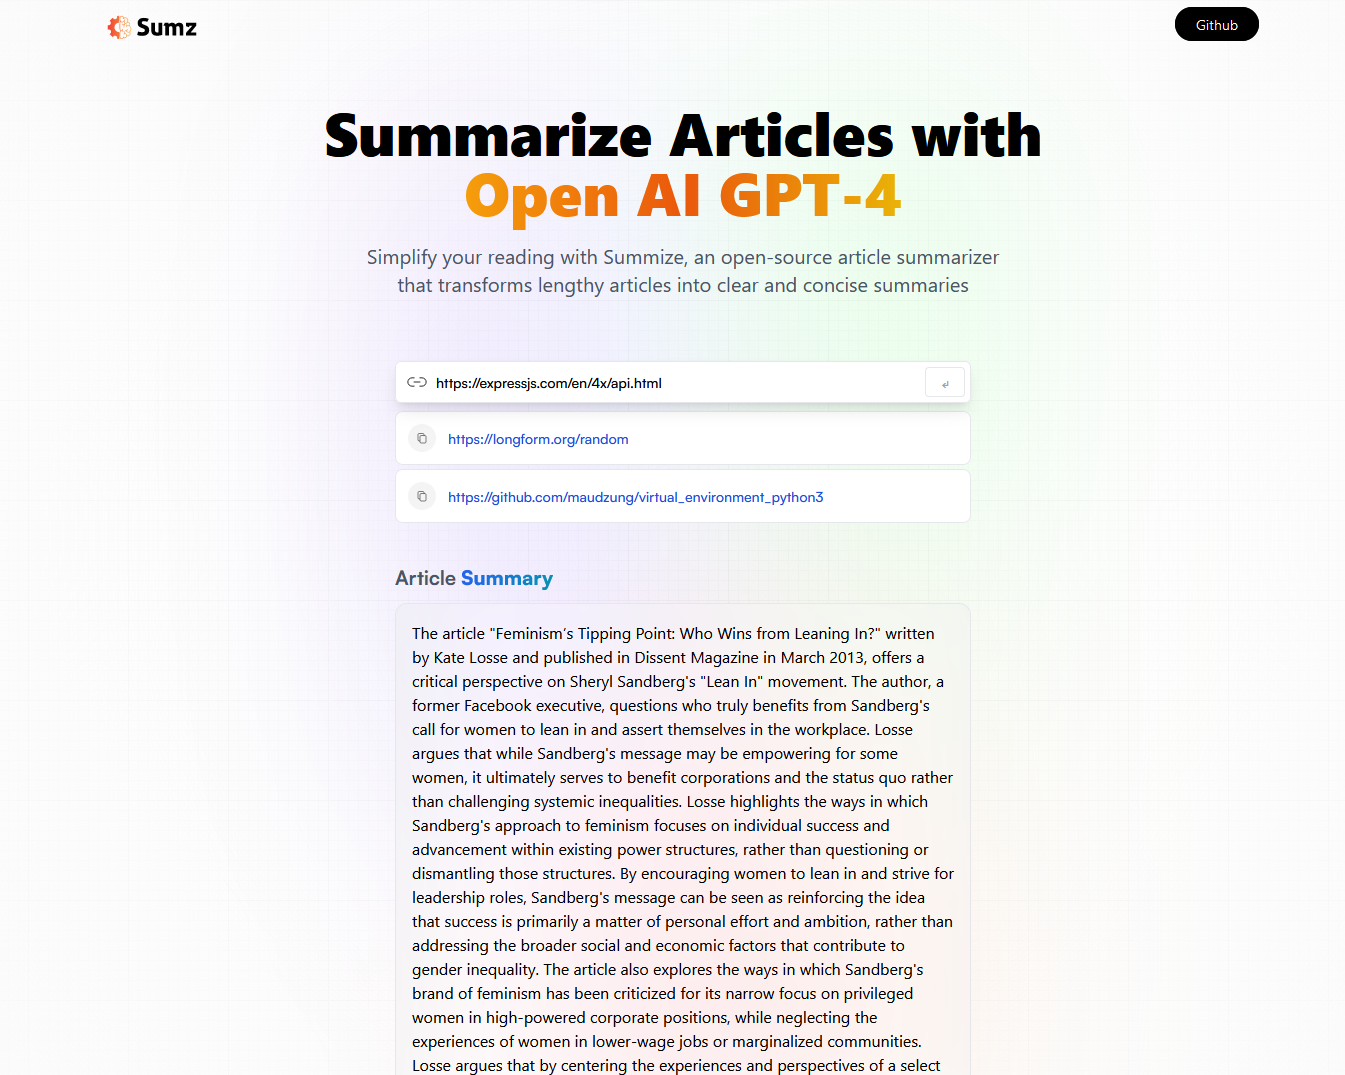
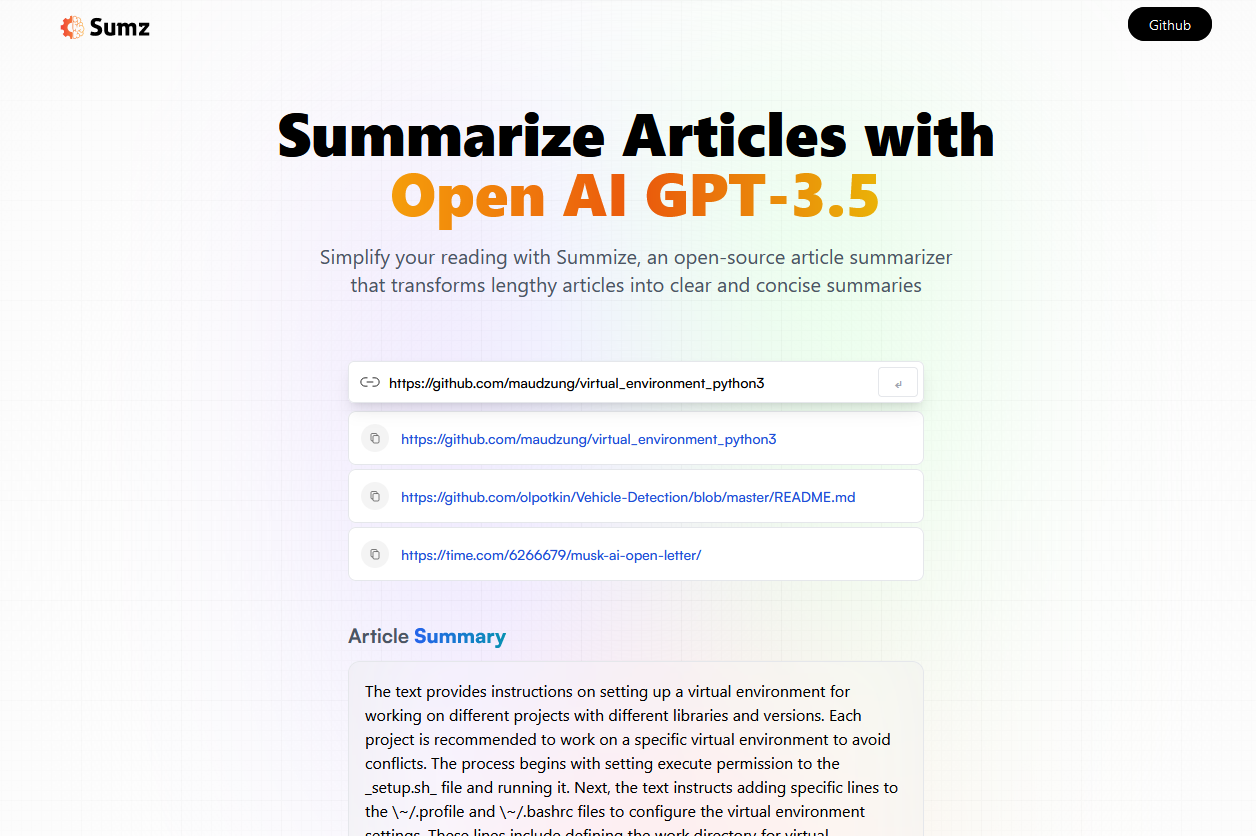
newsc

diff --git a/src/components/Hero.jsx b/src/components/Hero.jsx
@@ -16,7 +16,7 @@ const Hero = () => {
       </nav>
       <h1 className="head_text">
         Summarize Articles with <br className="max-md:hidden"/>
-        <span className="orange_gradient">Open AI GPT-4</span>
+        <span className="orange_gradient">Open AI GPT-3.5</span>
       </h1>
       <h2 className="desc">
         Simplify your reading with Summize, an open-source article summarizer that transforms lengthy articles into clear and concise summaries
